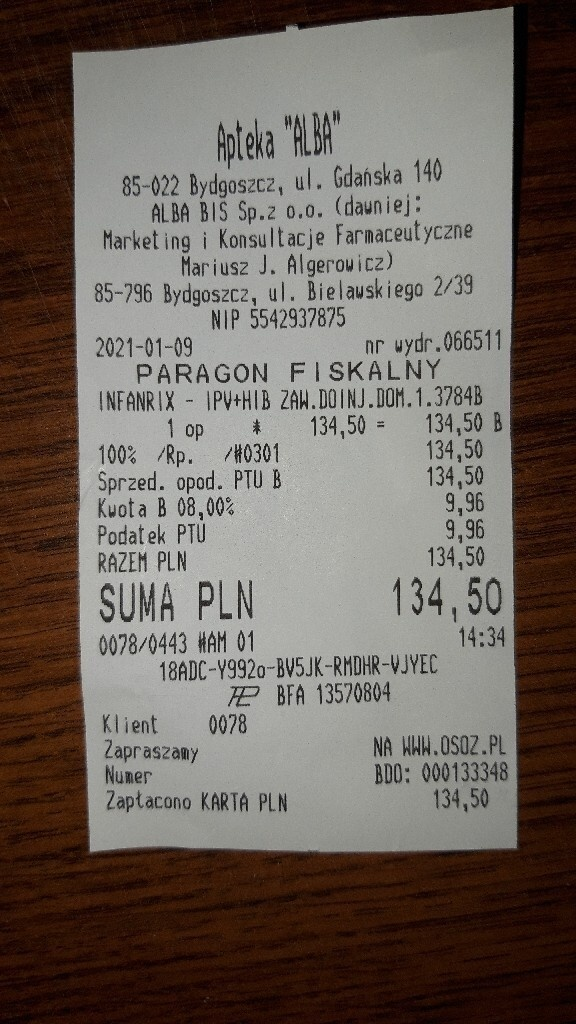
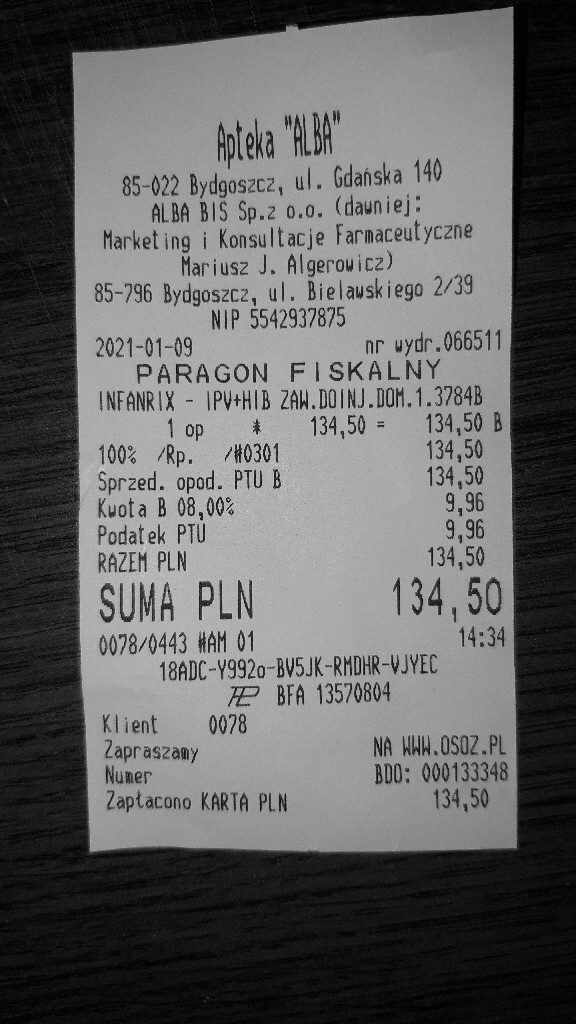
to greyscale img processing

diff --git a/DocumentScanner/src/main/java/docscanner/DocumentScanner.java b/DocumentScanner/src/main/java/docscanner/DocumentScanner.java
@@ -5,6 +5,7 @@ import java.util.Scanner;
 import nu.pattern.OpenCV;
 import org.opencv.core.Mat;
 import org.opencv.imgcodecs.Imgcodecs;
+import org.opencv.imgproc.Imgproc;
 import static java.io.File.separator;
 
 public class DocumentScanner {
@@ -12,13 +13,24 @@ public class DocumentScanner {
     public static final String RESOURCES_PATH = String.format("src%smain%sresources%s",
             separator, separator, separator);
 
-    public static void main(String[] args) {
+    static {
         OpenCV.loadLocally();
+    }
+
+    public static void main(String[] args) {
+
         Scanner scanner = new Scanner(System.in);
         String image = "receipt.jpg"; //scanner.nextLine();
-        
+
         Mat imgMatrix = loadImage(image);
-        saveImage(imgMatrix, "receipt.jpg");
+        Mat greyscaled = toGreyScale(imgMatrix);
+        saveImage(greyscaled, image);
+    }
+
+    public static Mat toGreyScale(Mat img) {
+        Mat greyscaled = new Mat();
+        Imgproc.cvtColor(img, greyscaled, Imgproc.COLOR_RGB2GRAY);
+        return greyscaled;
     }
 
     public static Mat loadImage(String imgName) {
